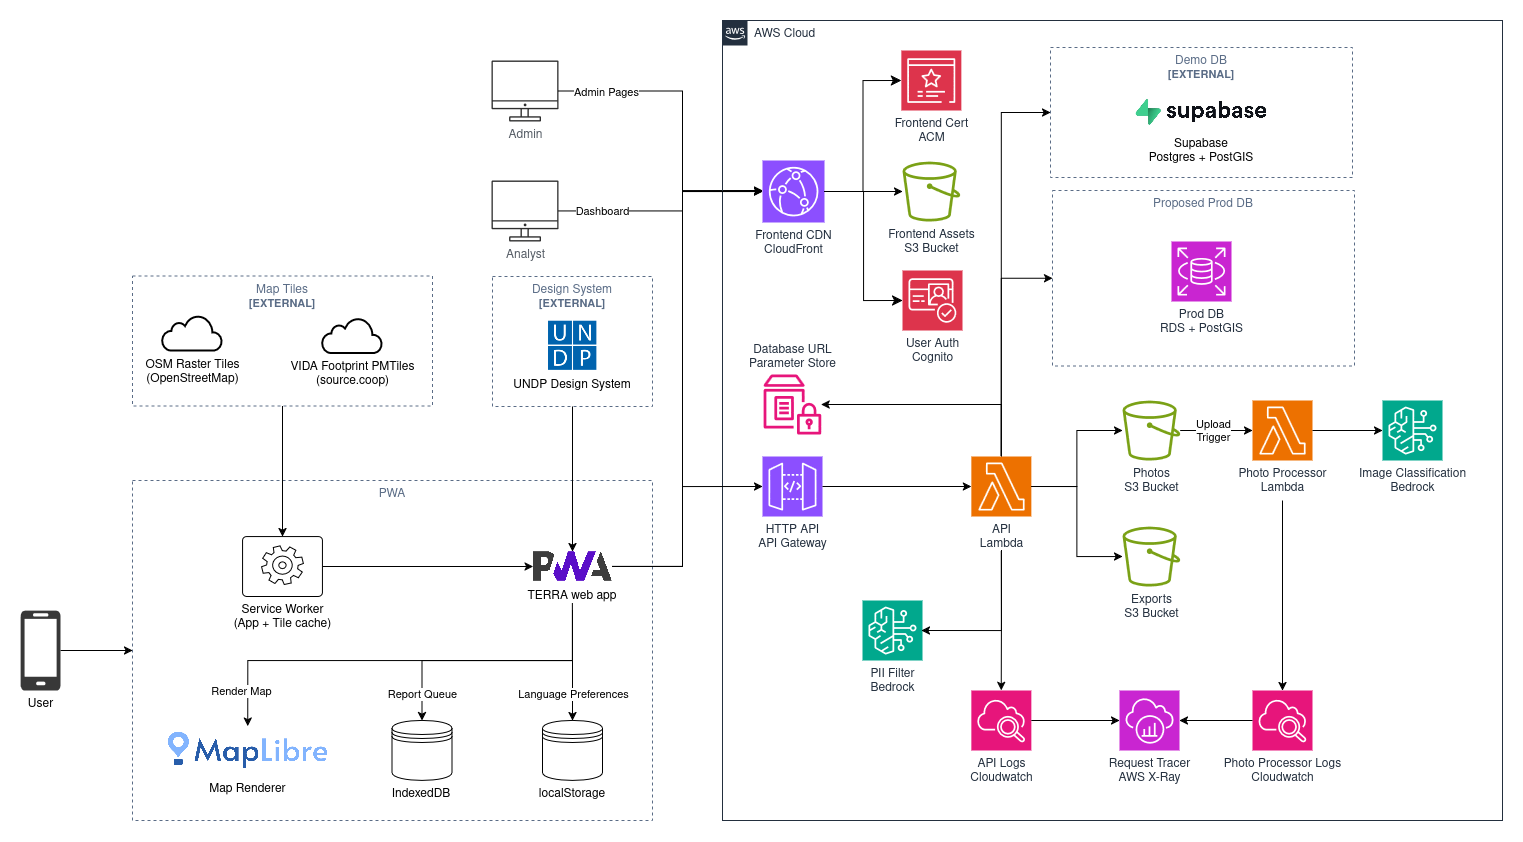
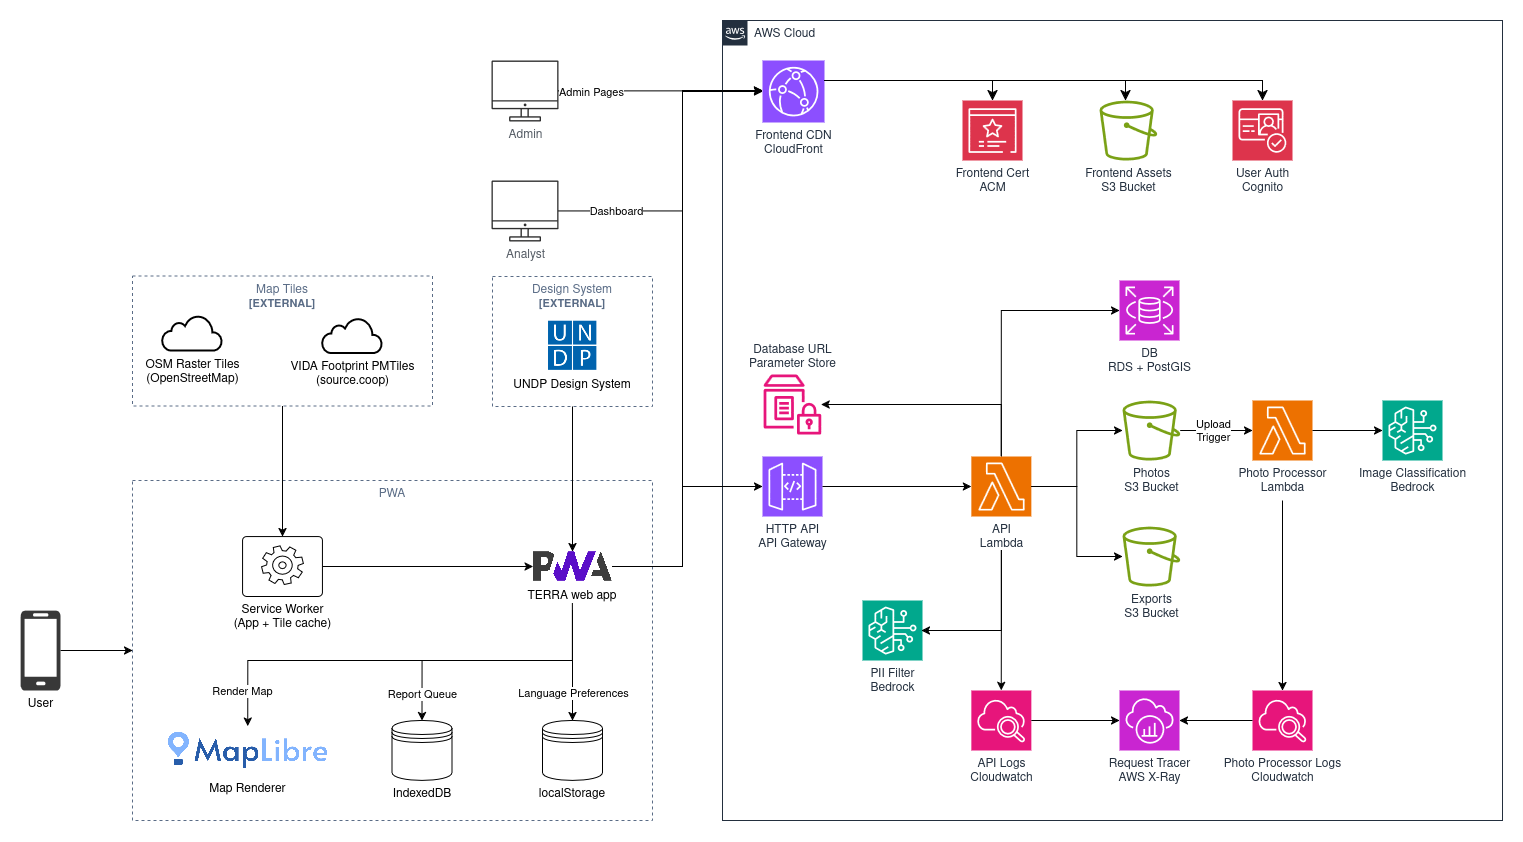
switch to micro instance, remove supabase references, update architecture diagram

diff --git a/README.md b/README.md
@@ -63,7 +63,7 @@ terraform plan
 terraform apply
 ```
 
-Terraform manages AWS resources (Lambda, API Gateway, S3, CloudFront, IAM, Cognito). Database is managed separately via Supabase.
+Terraform manages AWS resources (Lambda, API Gateway, S3, CloudFront, IAM, Cognito, RDS).
 
 **Note:** `terraform apply` is manual only — CI runs `terraform validate` on PRs but does not apply changes.
 
@@ -79,7 +79,7 @@ Terraform manages AWS resources (Lambda, API Gateway, S3, CloudFront, IAM, Cogni
 | Maps | MapLibre GL JS + PMTiles |
 | Building footprints | VIDA combined dataset (Google+Microsoft+OSM) |
 | Backend | Python + AWS Lambda Powertools |
-| Database | Supabase (PostgreSQL + PostGIS) |
+| Database | AWS RDS (PostgreSQL + PostGIS) |
 | Storage | AWS S3 |
 | CDN | AWS CloudFront |
 | AI | AWS Bedrock |

diff --git a/docs/scale-test.md b/docs/scale-test.md
@@ -63,13 +63,6 @@ python db/scale_test_writepath.py --mode db-only --url https://api.terra.foad.de
 python db/scale_test_writepath.py --mode full --url https://api.terra.foad.dev --photo-key uploads/<existing-uuid>.jpg
 ```
 
-Restore Supabase:
-
-```bash
-aws ssm put-parameter --name /terra/database_url --value "$SUPABASE_URL" --overwrite --type SecureString
-cd backend && ./deploy.sh
-```
-
 ## Teardown
 
 ```bash

diff --git a/docs/report-submission-flow.md b/docs/report-submission-flow.md
@@ -6,7 +6,7 @@ sequenceDiagram
     participant API as Lambda API
     participant S3 as S3 (Photos)
     participant AI as Bedrock (AI)
-    participant DB as Supabase (PostGIS)
+    participant DB as RDS (PostGIS)
     participant IDB as IndexedDB
     participant LS as localStorage
 
